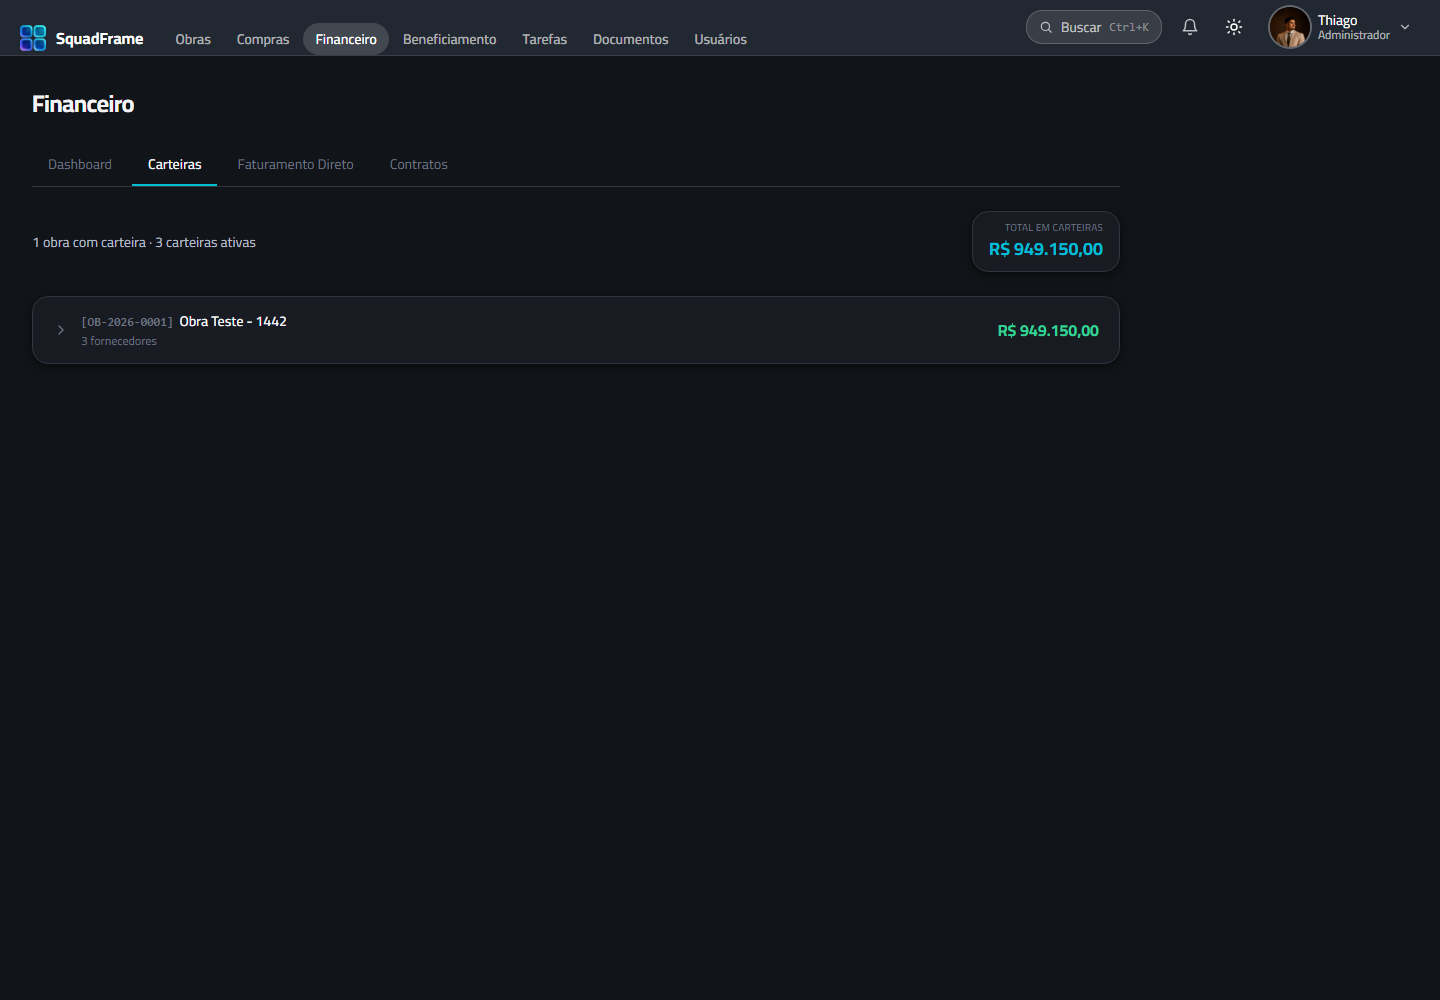
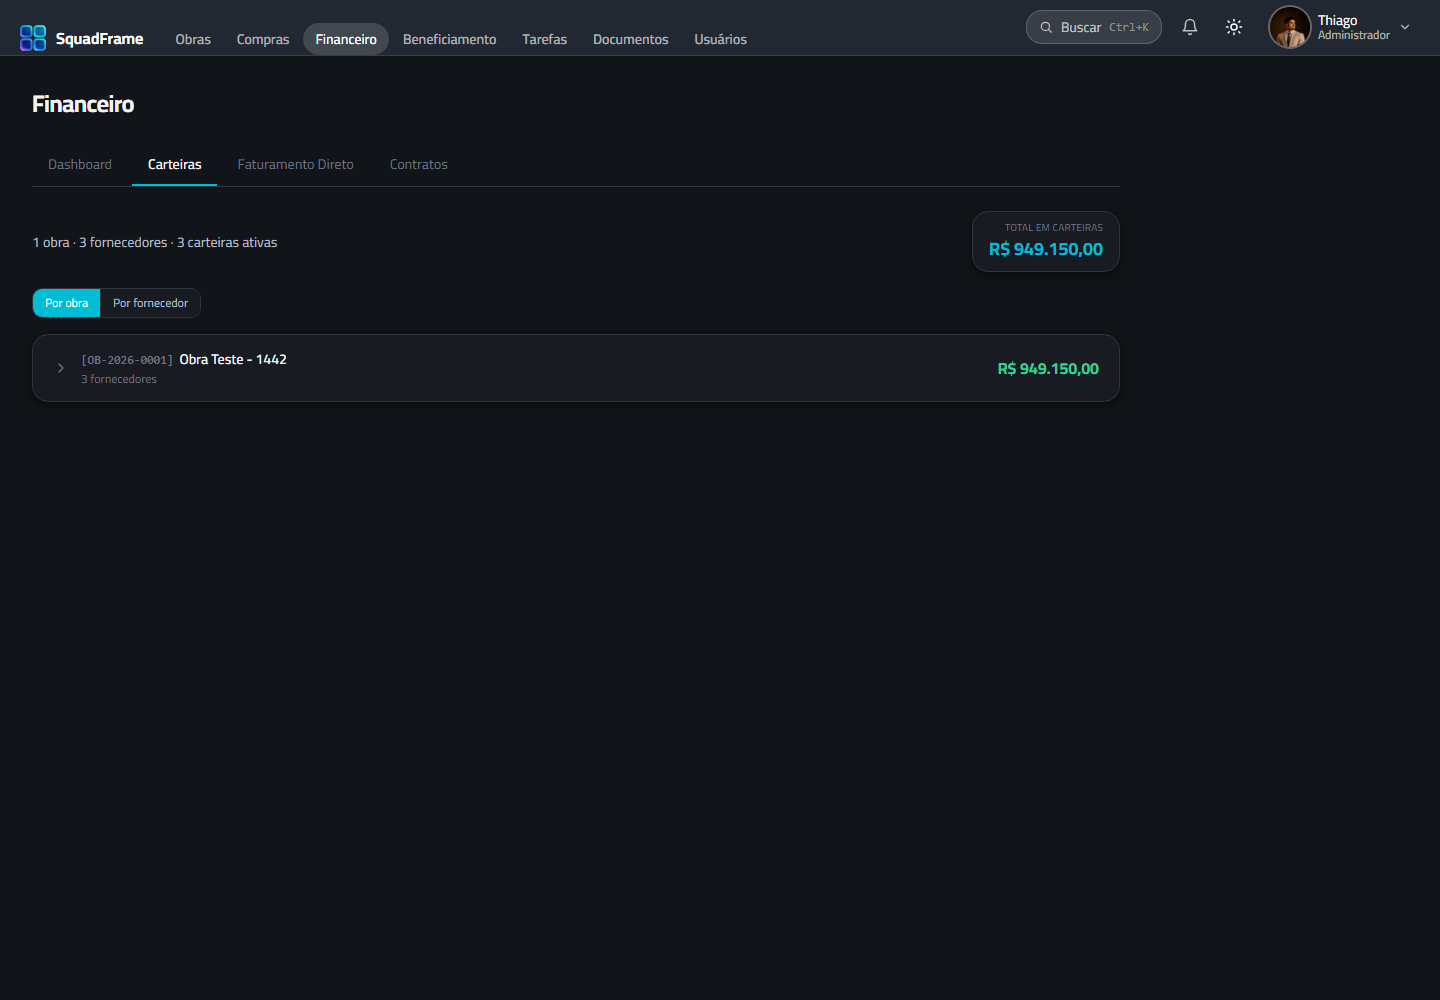
docs: atualiza imagens de carteiras

Changed region(s): [[0.0, 0.279, 0.2188, 0.403], [0.6875, 0.31, 0.7812, 0.372], [0.0625, 0.217, 0.1875, 0.248]]

diff --git a/sgi/app/treinamento/squadframe/carteiras-financeiro/page.tsx b/sgi/app/treinamento/squadframe/carteiras-financeiro/page.tsx
@@ -72,7 +72,8 @@ export default function GuiaCarteirasFinanceiroPage() {
           <>Use a visão por <strong className="text-text">Obra</strong> para localizar a origem do saldo ou por <strong className="text-text">Fornecedor</strong> para conferir o total compartilhado.</>,
           <>Abra uma carteira para consultar saldo, depósitos, débitos e o histórico de movimentações.</>,
         ]} />
-        <Shot src={`${IMG}/04-carteiras.png`} alt="Visão real das carteiras no Financeiro" />
+        <Shot src={`${IMG}/04-carteiras.png`} alt="Visão real das carteiras agrupadas por obra" caption="Visão por obra: mostra a origem dos recursos e o total de cada obra." />
+        <Shot src={`${IMG}/04b-carteiras-por-fornecedor.png`} alt="Visão real das carteiras agrupadas por fornecedor" caption="Visão por fornecedor: mostra o saldo compartilhado e as obras que compõem o total de cada fornecedor." />
       </section>
 
       <section id="corrigir" className="mb-16 scroll-mt-24">
